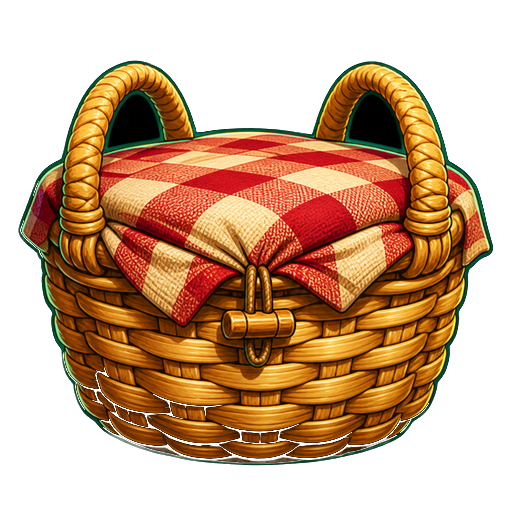
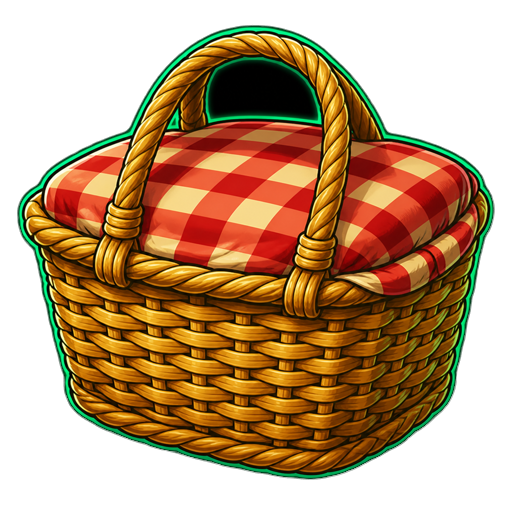
The crates actually open now
Each box is TWO paintings of the same object, shut and open, drawn to
line up so one can be swapped for the other on the burst frame without
anything moving. Il-Qoffa's cloth is thrown back with coins over the
rim, Is-Senduq's lid hinges right over with purple light blasting out
and a gem tumbling off the front, It-Tezor's domed lid goes back on a
shaft of gold. All six regenerated, richer than the first set, and
flood-filled to real transparency.

The open art is fetched while the crate is still trembling, because
swapping to a file the browser has not got yet would show a hole for a
frame at the exact moment every eye is on it.

And the box no longer just vanishes. It used to scale up and fade in
0.44s -- gone before you looked at it, replaced by a card. Now it opens,
holds lit, then LIFTS up and out while the prize rises into the space it
leaves. They were both dead centre before, so the card simply covered
the box; the crate had to get out of the way, not fade where it stood.

Proven by sampling inside the page rather than by screenshots -- a
screenshot round-trip is longer than the beat, and pausing the
animations does not pause the timers, so both lie about it. The open
crate is alone at full opacity from 0 to 561ms, the card comes up at
663ms, the crate is down to 0.27 by 1061ms and gone at 1161ms. About
660ms of open box before anything else appears.

Claude-Session: https://claude.ai/code/session_01Q55X5n8LA6xgNosSpJws7r

diff --git a/js/game.js b/js/game.js
@@ -3964,6 +3964,12 @@ function boxPop(res){
     '</div>';
   document.body.appendChild(el);
   boxPopEl = el;
+  /* THE LID HAS TO BE READY BEFORE IT IS NEEDED. The open crate is a second
+     painting, and swapping to a file the browser has not fetched yet would
+     show a hole for a frame at the exact moment everything is looking at it.
+     Fetched now, while the box is still trembling. */
+  const openSrc = (ART.base ? uiArt('box', 'box-' + res.box.id + '-open.png') : '') || '';
+  if (openSrc && !REDUCED){ const pre = new Image(); pre.src = openSrc; }
 
   let opened = REDUCED;
   const open = () => {
@@ -3978,6 +3984,12 @@ function boxPop(res){
     if (!REDUCED){
       el.classList.add('kick');
       setTimeout(() => { if (boxPopEl === el) el.classList.remove('kick'); }, 420);
+      /* IT OPENS. The crate does not vanish and get replaced by a card any
+         more — the lid goes back, the light comes out, and you SEE the thing
+         you paid for standing open for a beat before the prize rises out of
+         it. Two paintings of the same box, swapped on the burst frame. */
+      const img = $('.bx-hero .bx-img', el);
+      if (img && openSrc){ img.src = openSrc; el.classList.add('lid'); }
     }
     if (window.KARTI_SFX){
       try {
@@ -4007,7 +4019,7 @@ function boxPop(res){
         const cb = core.getBoundingClientRect(), mb = m.getBoundingClientRect();
         fx.style.top = Math.round(mb.top - cb.top + mb.height / 2) + 'px';
       }
-    }, 340);
+    }, 1250);
 
     /* WHAT CAME OUT OF THE BOX. particles() throws a radial burst, which is
        the spin's language; a crate should empty itself, so this rains its
@@ -4249,11 +4261,11 @@ function chipsCSS(){
       'margin-left:min(-105px,-27.5vw);transform-origin:50% 100%;opacity:0;' +
       'background:linear-gradient(180deg,color-mix(in srgb,var(--fxc) 55%,transparent),transparent 72%);' +
       'filter:blur(9px);clip-path:polygon(38% 0,62% 0,100% 100%,0 100%)}' +
-    '.bpop.open .bx-beam{animation:bxBeam 1.1s cubic-bezier(.2,.9,.3,1) both}' +
+    '.bpop.open .bx-beam{animation:bxBeam 1.1s cubic-bezier(.2,.9,.3,1) .18s both}' +
     '@keyframes bxBeam{0%{opacity:0;transform:scaleY(.15)}' +
       '35%{opacity:.8}100%{opacity:.4;transform:scaleY(1)}}' +
     /* the card comes UP, not out of nowhere */
-    '.bpop.open .spop-med{animation:bxRise .52s cubic-bezier(.18,1.3,.32,1) .1s both}' +
+    '.bpop.open .spop-med{animation:bxRise .52s cubic-bezier(.18,1.3,.32,1) .6s both}' +
     '@keyframes bxRise{0%{opacity:0;transform:translateY(46px) scale(.82)}' +
       '55%{opacity:1}100%{opacity:1;transform:translateY(0) scale(1)}}' +
     /* what fell out */
@@ -4283,10 +4295,23 @@ function chipsCSS(){
       'transition:transform .19s cubic-bezier(.34,1.56,.64,1)}' +
     '.bpop.hold .bx-img{filter:drop-shadow(0 0 26px var(--bxa)) brightness(1.25)}' +
     /* and it goes */
-    '.bpop.open .bxart{animation:bxBurst .44s cubic-bezier(.2,.9,.3,1) forwards}' +
+    /* THE OPENING, not a disappearance. The crate used to scale up and fade
+       in 0.44s — by the time your eye got there it was already gone and a
+       card was in its place. Now the lid image swaps in on the burst frame
+       and the OPEN box holds for most of a second, lit, before it drifts up
+       and clears the stage for the prize. You get to see what you bought. */
+    '.bpop.open .bxart{animation:bxBurst 1.25s cubic-bezier(.2,.85,.3,1) forwards}' +
     '@keyframes bxBurst{0%{transform:scale(1.07);opacity:1}' +
-      '45%{transform:scale(1.34);opacity:.85}' +
-      '100%{transform:scale(2.05);opacity:0}}' +
+      '10%{transform:scale(1.22);opacity:1}' +
+      '24%{transform:scale(1.14);opacity:1}' +
+      '46%{transform:scale(1.14) translateY(-8px);opacity:1}' +
+      /* it LIFTS OUT OF THE WAY rather than fading where it stands, so the
+         card can rise into the space it vacates instead of over the top of
+         it — they were both centred, and the card simply covered the box */
+      '78%{transform:scale(1.02) translateY(-124px);opacity:.85}' +
+      '100%{transform:scale(.92) translateY(-168px);opacity:0}}' +
+    /* the moment the lid image lands, the glow behind it flares */
+    '.bpop.lid .bx-img{filter:drop-shadow(0 0 34px var(--bxa)) brightness(1.16)}' +
     'body.reduced .bpop .bxart{animation:none!important;transform:none!important}' +
     '.bxart.big{width:150px;height:150px}' +
     '.bxart b{position:absolute;display:block;border-radius:9px}' +

diff --git a/sw.js b/sw.js
@@ -2,7 +2,7 @@
    Deliberately narrow: it never touches cross-origin requests and never
    touches range requests, because a greedy SW broke a previous project.
    Bump CACHE on every deploy. */
-const CACHE = 'karti-v303';
+const CACHE = 'karti-v304';
 /* ── THE SHELL, NOT THE GAME ─────────────────────────────────────────────────
    This list used to be 205 entries / ~24 MB — every game module and every
    per-game portrait — so a first install (and EVERY version bump) re-fetched

diff --git a/index.html b/index.html
@@ -2365,7 +2365,7 @@ window.KARTI_THEME = (function(){
    over a MessageChannel, and the answer comes from the script iOS actually
    activated — not from the server, not from a constant. Keep BUILD in step
    with CACHE in sw.js (bump both on every deploy). */
-var KARTI_BUILD = 303;
+var KARTI_BUILD = 304;
 window.KARTI_BUILD = KARTI_BUILD;
 window.swVersion = function(){
   return new Promise(function(resolve){
